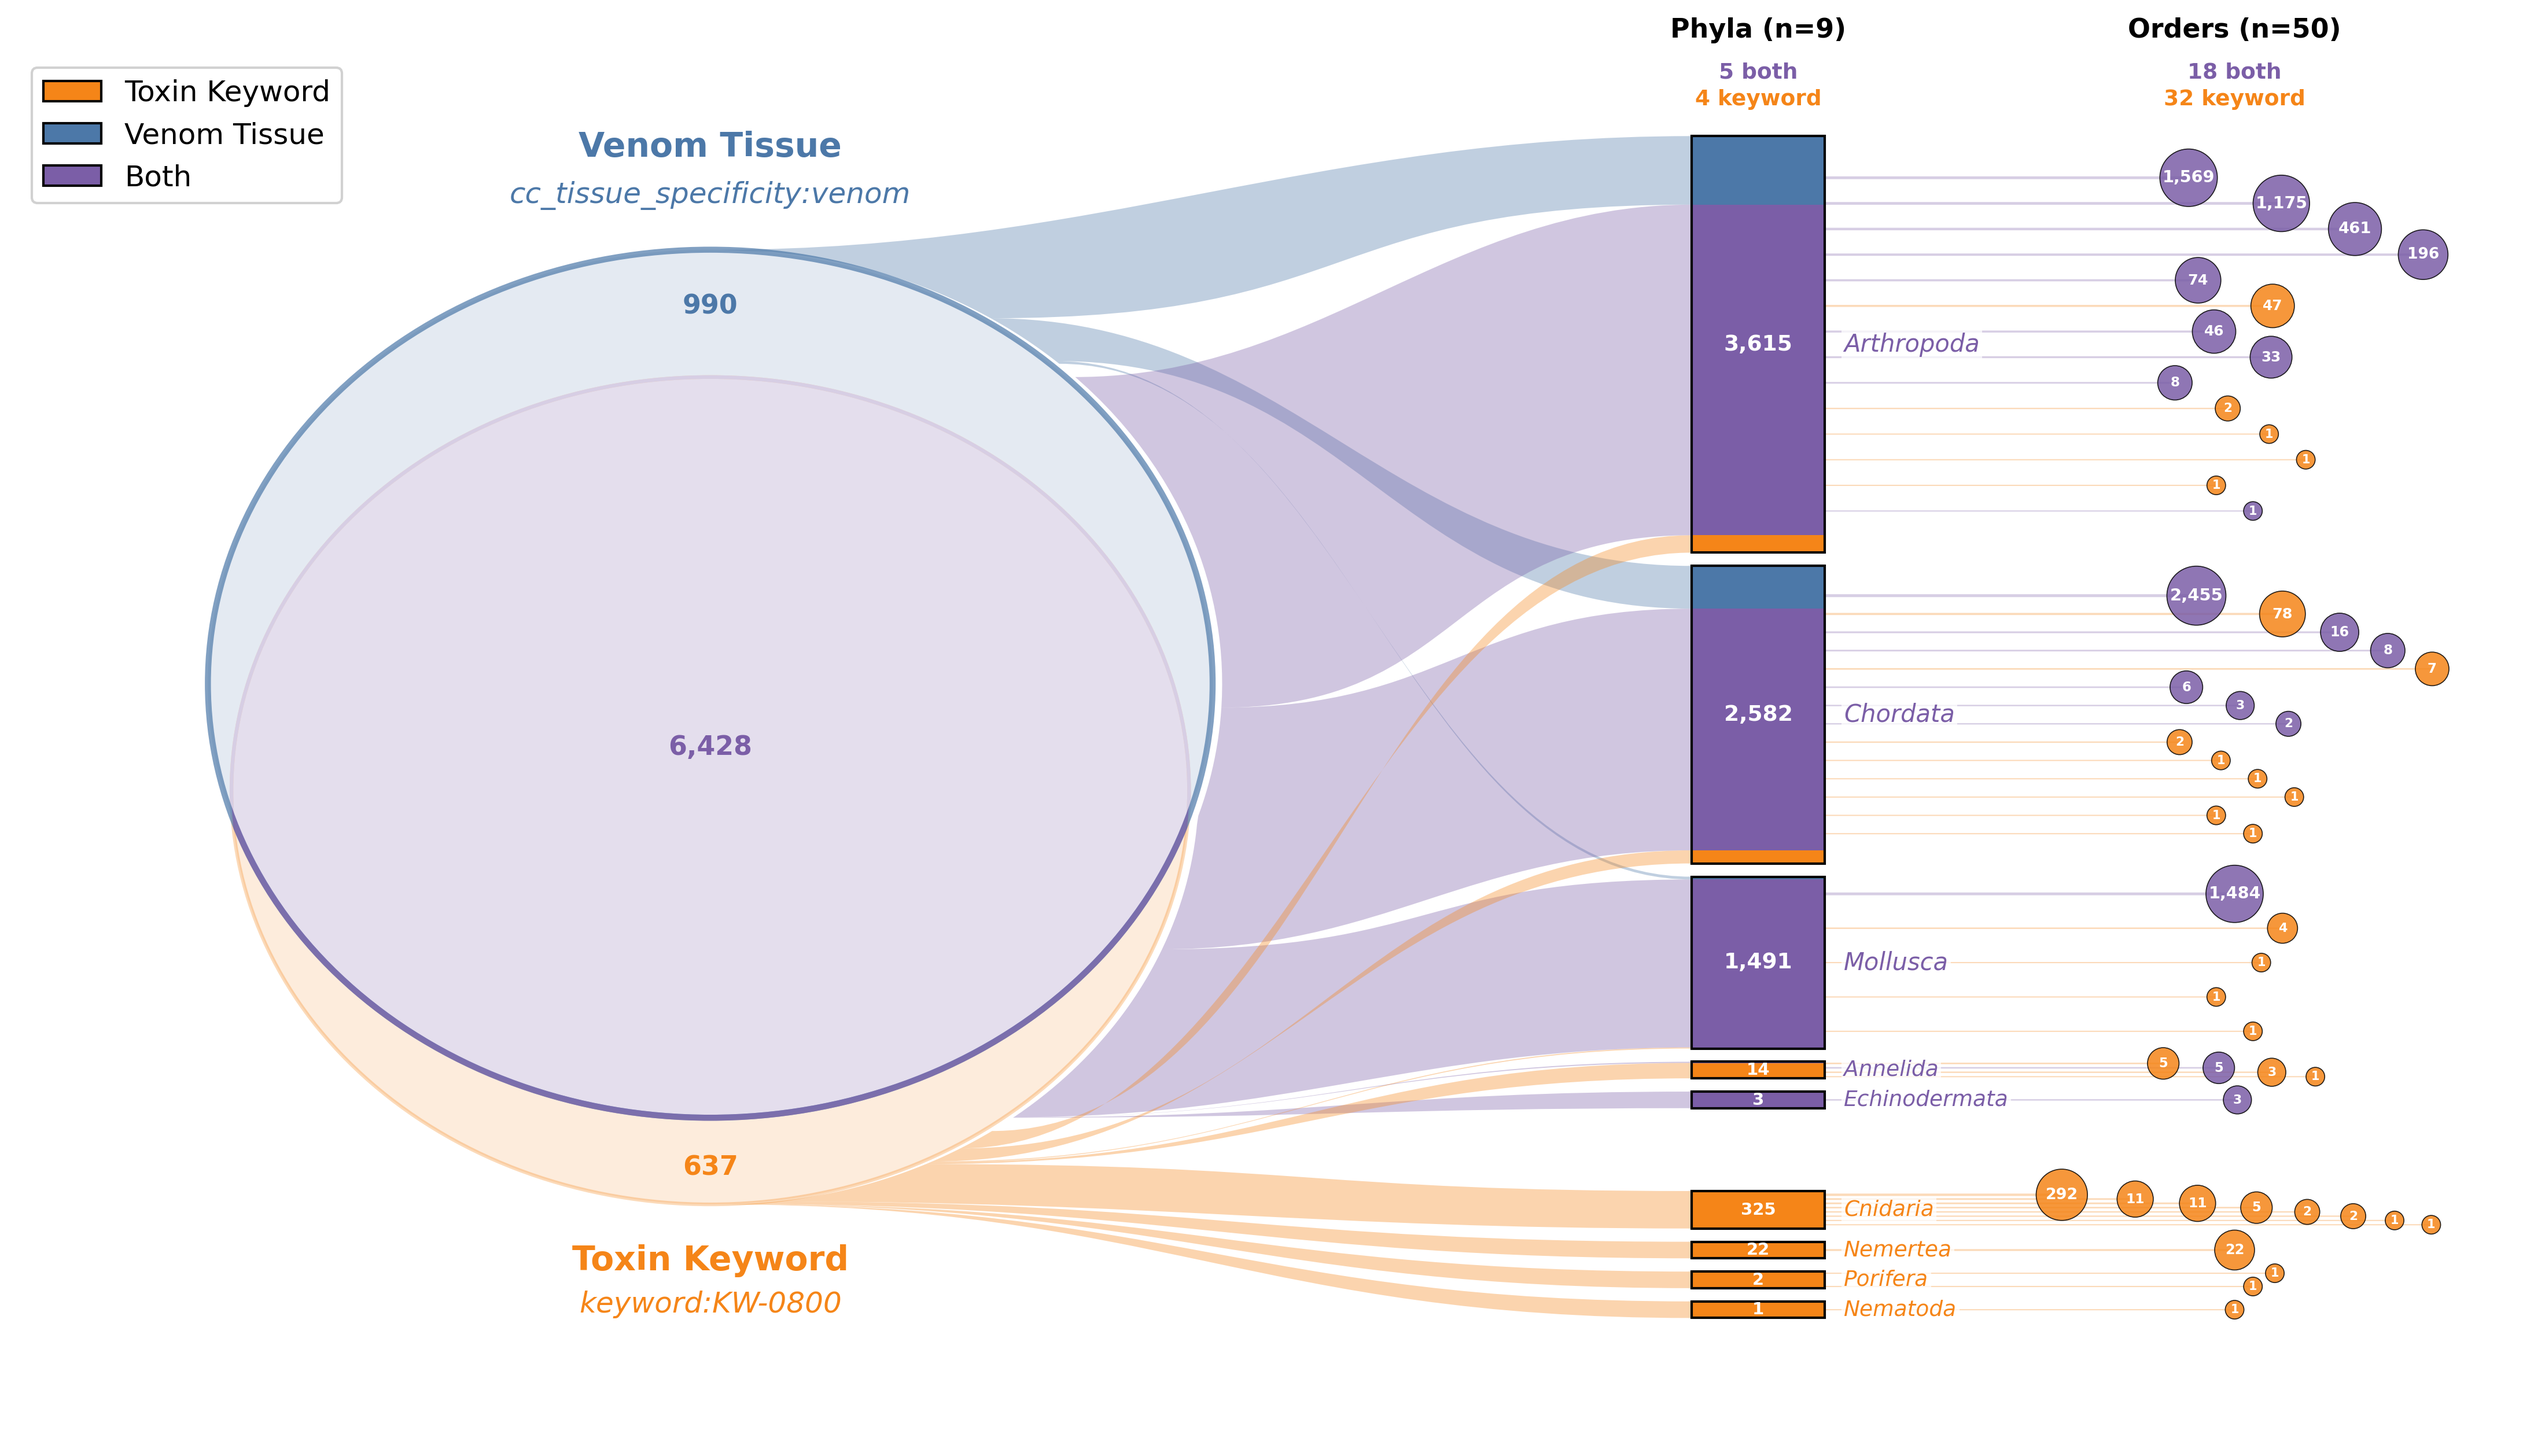
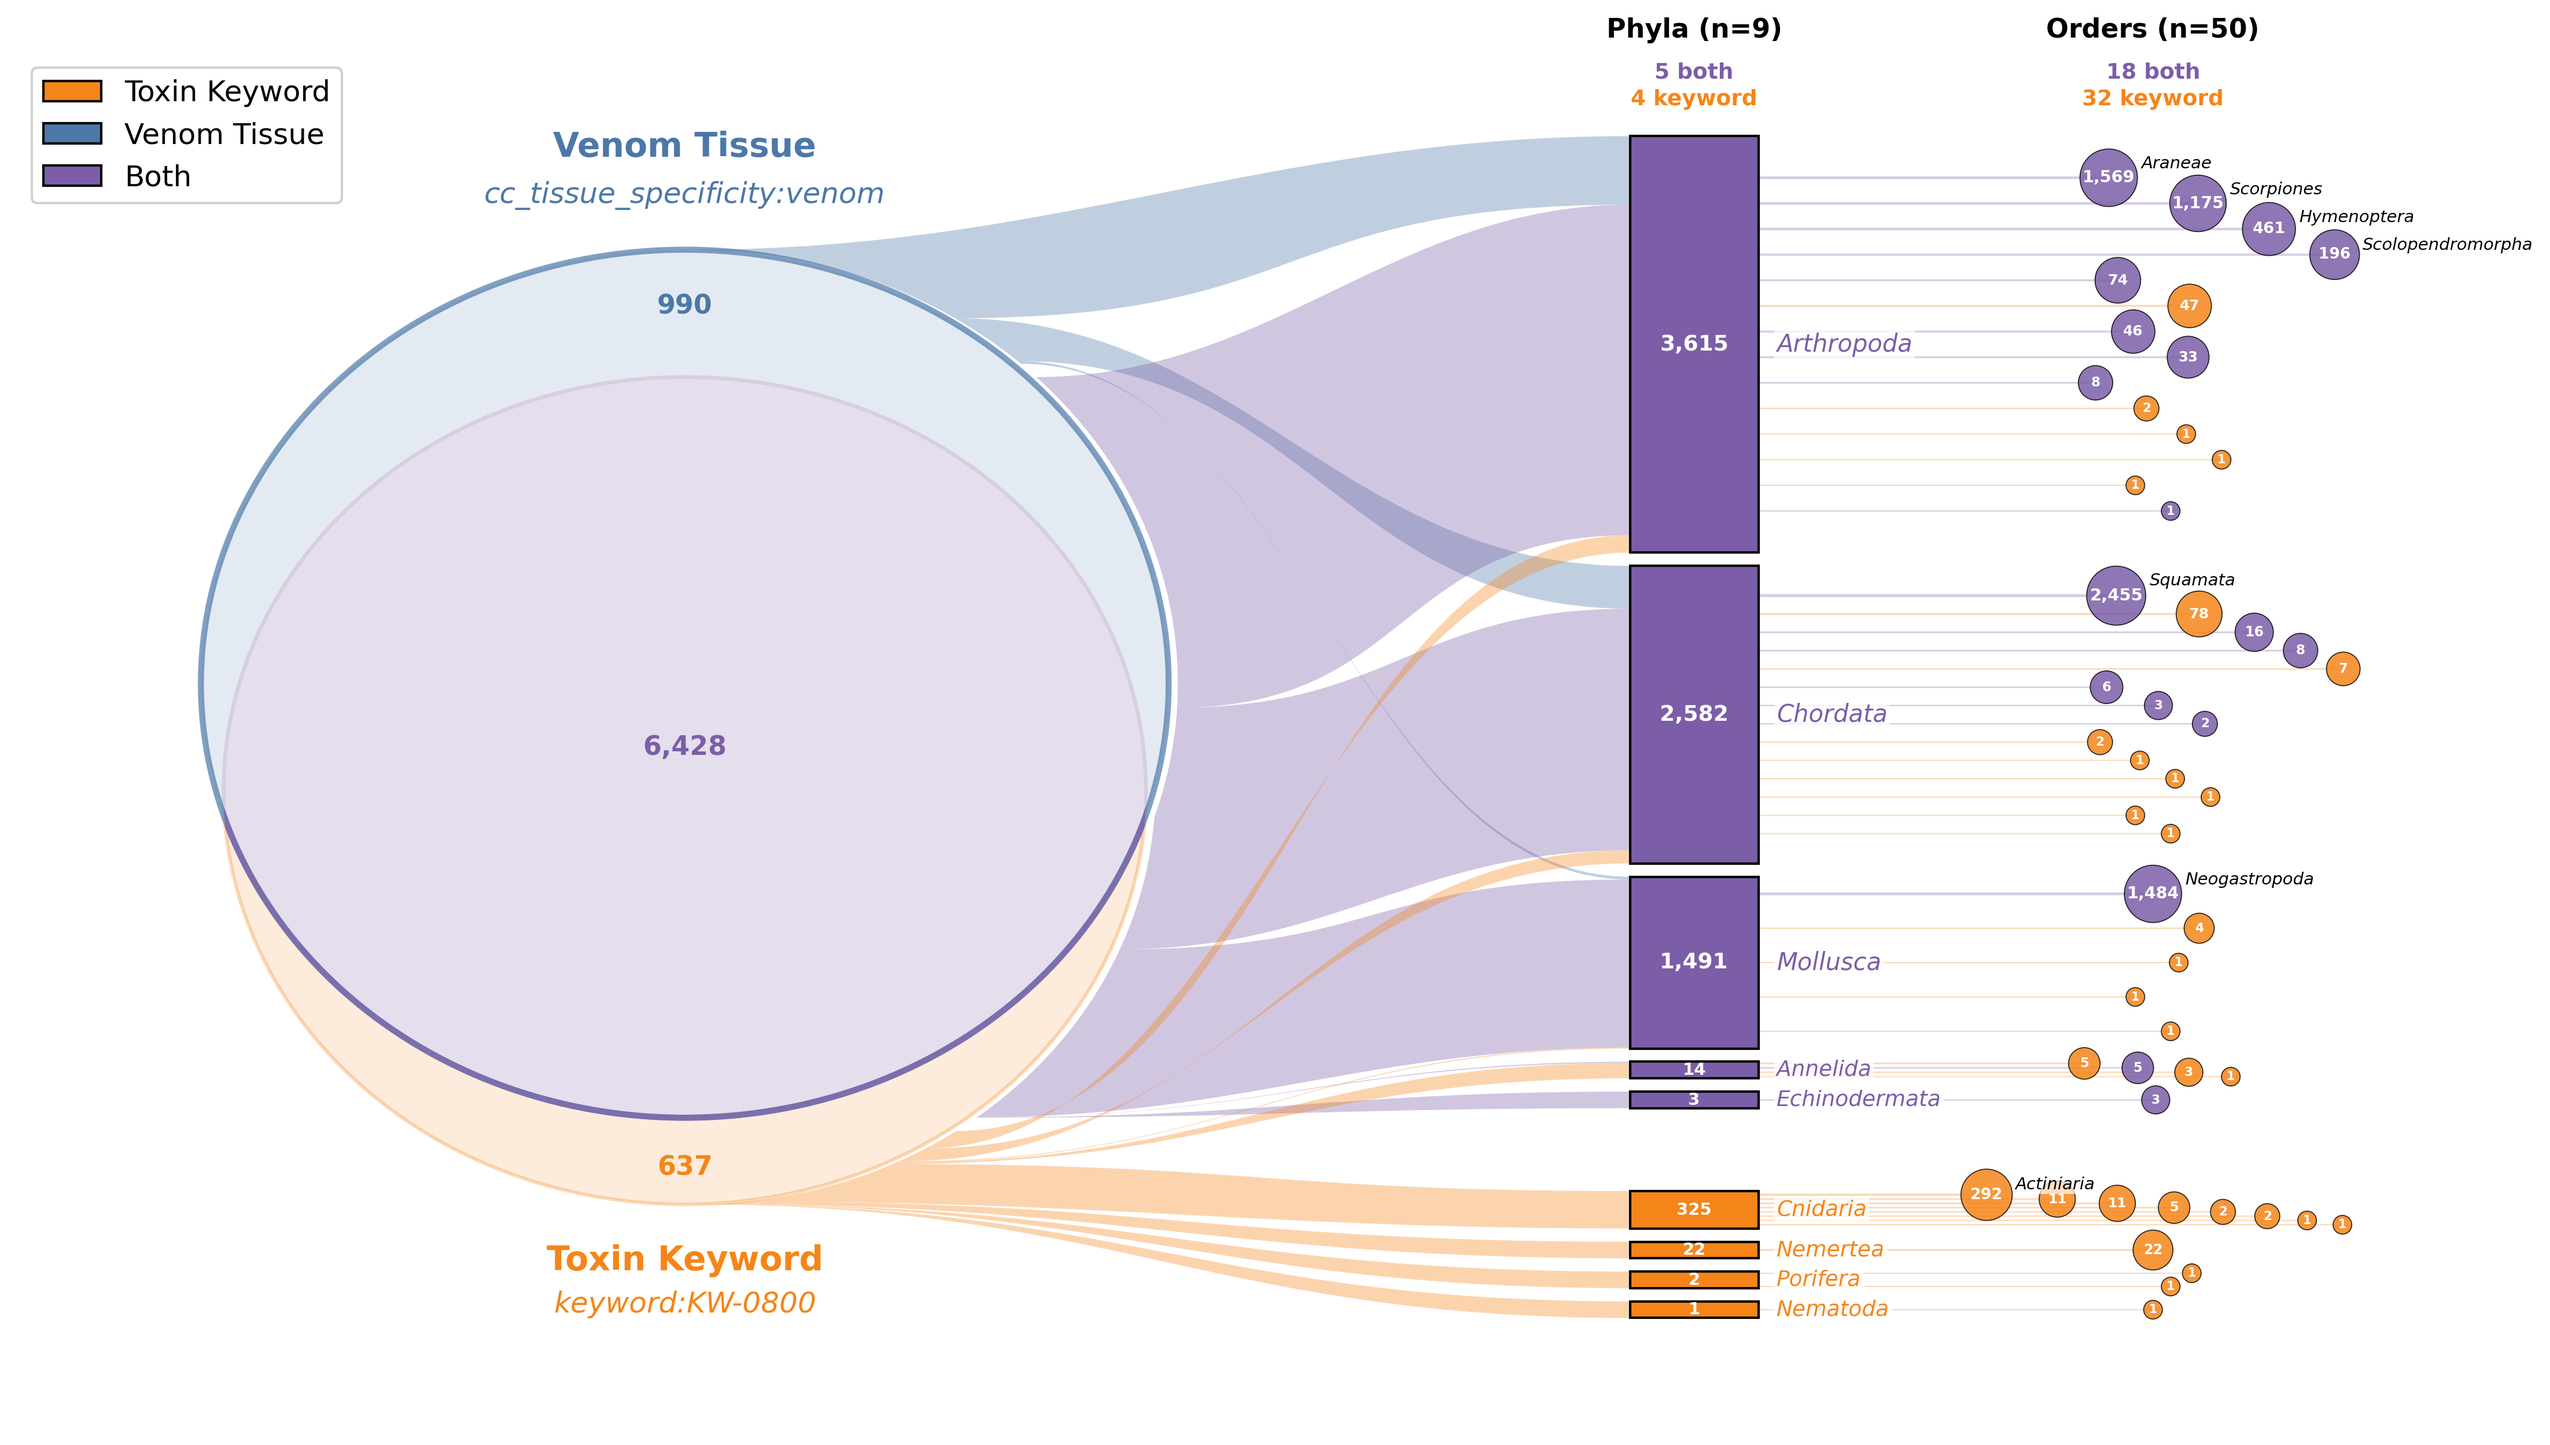
feat(definitions): add order name labels and use solid phylum bars
Label orders with >100 entries next to their dots and simplify phylum
bars to a single exclusivity colour since the flows already show the
definition breakdown.

diff --git a/src/analysis/combine_definition_panels.py b/src/analysis/combine_definition_panels.py
@@ -400,6 +400,24 @@ def plot_grouped_phylum_venn_flow(df: pd.DataFrame, ax: plt.Axes) -> None:
             zorder=6,
         )
 
+    # Name labels for orders with more than 100 entries
+    labeled_orders = orders[orders["count"] > 100]
+    for idx, row in labeled_orders.iterrows():
+        rx = radii_x[idx]
+        ry = radii_y[idx]
+        ax.text(
+            row["dot_x"] + rx * 0.8,
+            row["dot_y"] + ry - 0.85,
+            row["Order"],
+            ha="left",
+            va="bottom",
+            fontsize=7,
+            fontstyle="italic",
+            color="black",
+            bbox=dict(facecolor="white", alpha=0.7, edgecolor="none", pad=0.5),
+            zorder=7,
+        )
+
     # Column header — color-coded counts
     n_kw_orders = int((orders["exclusivity"] == "kw_toxin").sum())
     n_shared_orders = int((orders["exclusivity"] == "both").sum())
@@ -747,31 +765,13 @@ def plot_grouped_phylum_venn_flow(df: pd.DataFrame, ax: plt.Axes) -> None:
         active = [d for d in DEFINITION_ORDER if ct.loc[phylum, d] > 0]
         lbl_color = flow_colors[active[0]] if len(active) == 1 else DEFINITION_COLORS["both"]
 
-        # stacked coloured segments
-        seg_y = pos["bottom"]
-        for defn in stack_order:
-            sc = ct.loc[phylum, defn]
-            if sc == 0:
-                continue
-            sh = bar_h * sc / tot
-            ax.add_patch(
-                Rectangle(
-                    (x_left - box_w / 2, seg_y),
-                    box_w,
-                    sh,
-                    fc=flow_colors[defn],
-                    ec="none",
-                )
-            )
-            seg_y += sh
-
-        # border
+        # solid bar in the phylum's exclusivity colour
         ax.add_patch(
             Rectangle(
                 (x_left - box_w / 2, pos["bottom"]),
                 box_w,
                 bar_h,
-                fc="none",
+                fc=lbl_color,
                 ec="black",
                 lw=1,
             )
@@ -928,7 +928,7 @@ def plot_grouped_phylum_venn_flow(df: pd.DataFrame, ax: plt.Axes) -> None:
 
     # --- axis limits ------------------------------------------------------
     rx_max = max(rx_vt, rx_kw)
-    ax.set_xlim(x_venn - rx_max - 1.0, dot_x_max_global + 0.3)
+    ax.set_xlim(x_venn - rx_max - 1.0, dot_x_max_global + 0.8)
     ax.set_ylim(y_lo, y_hi)
     ax.axis("off")
 
